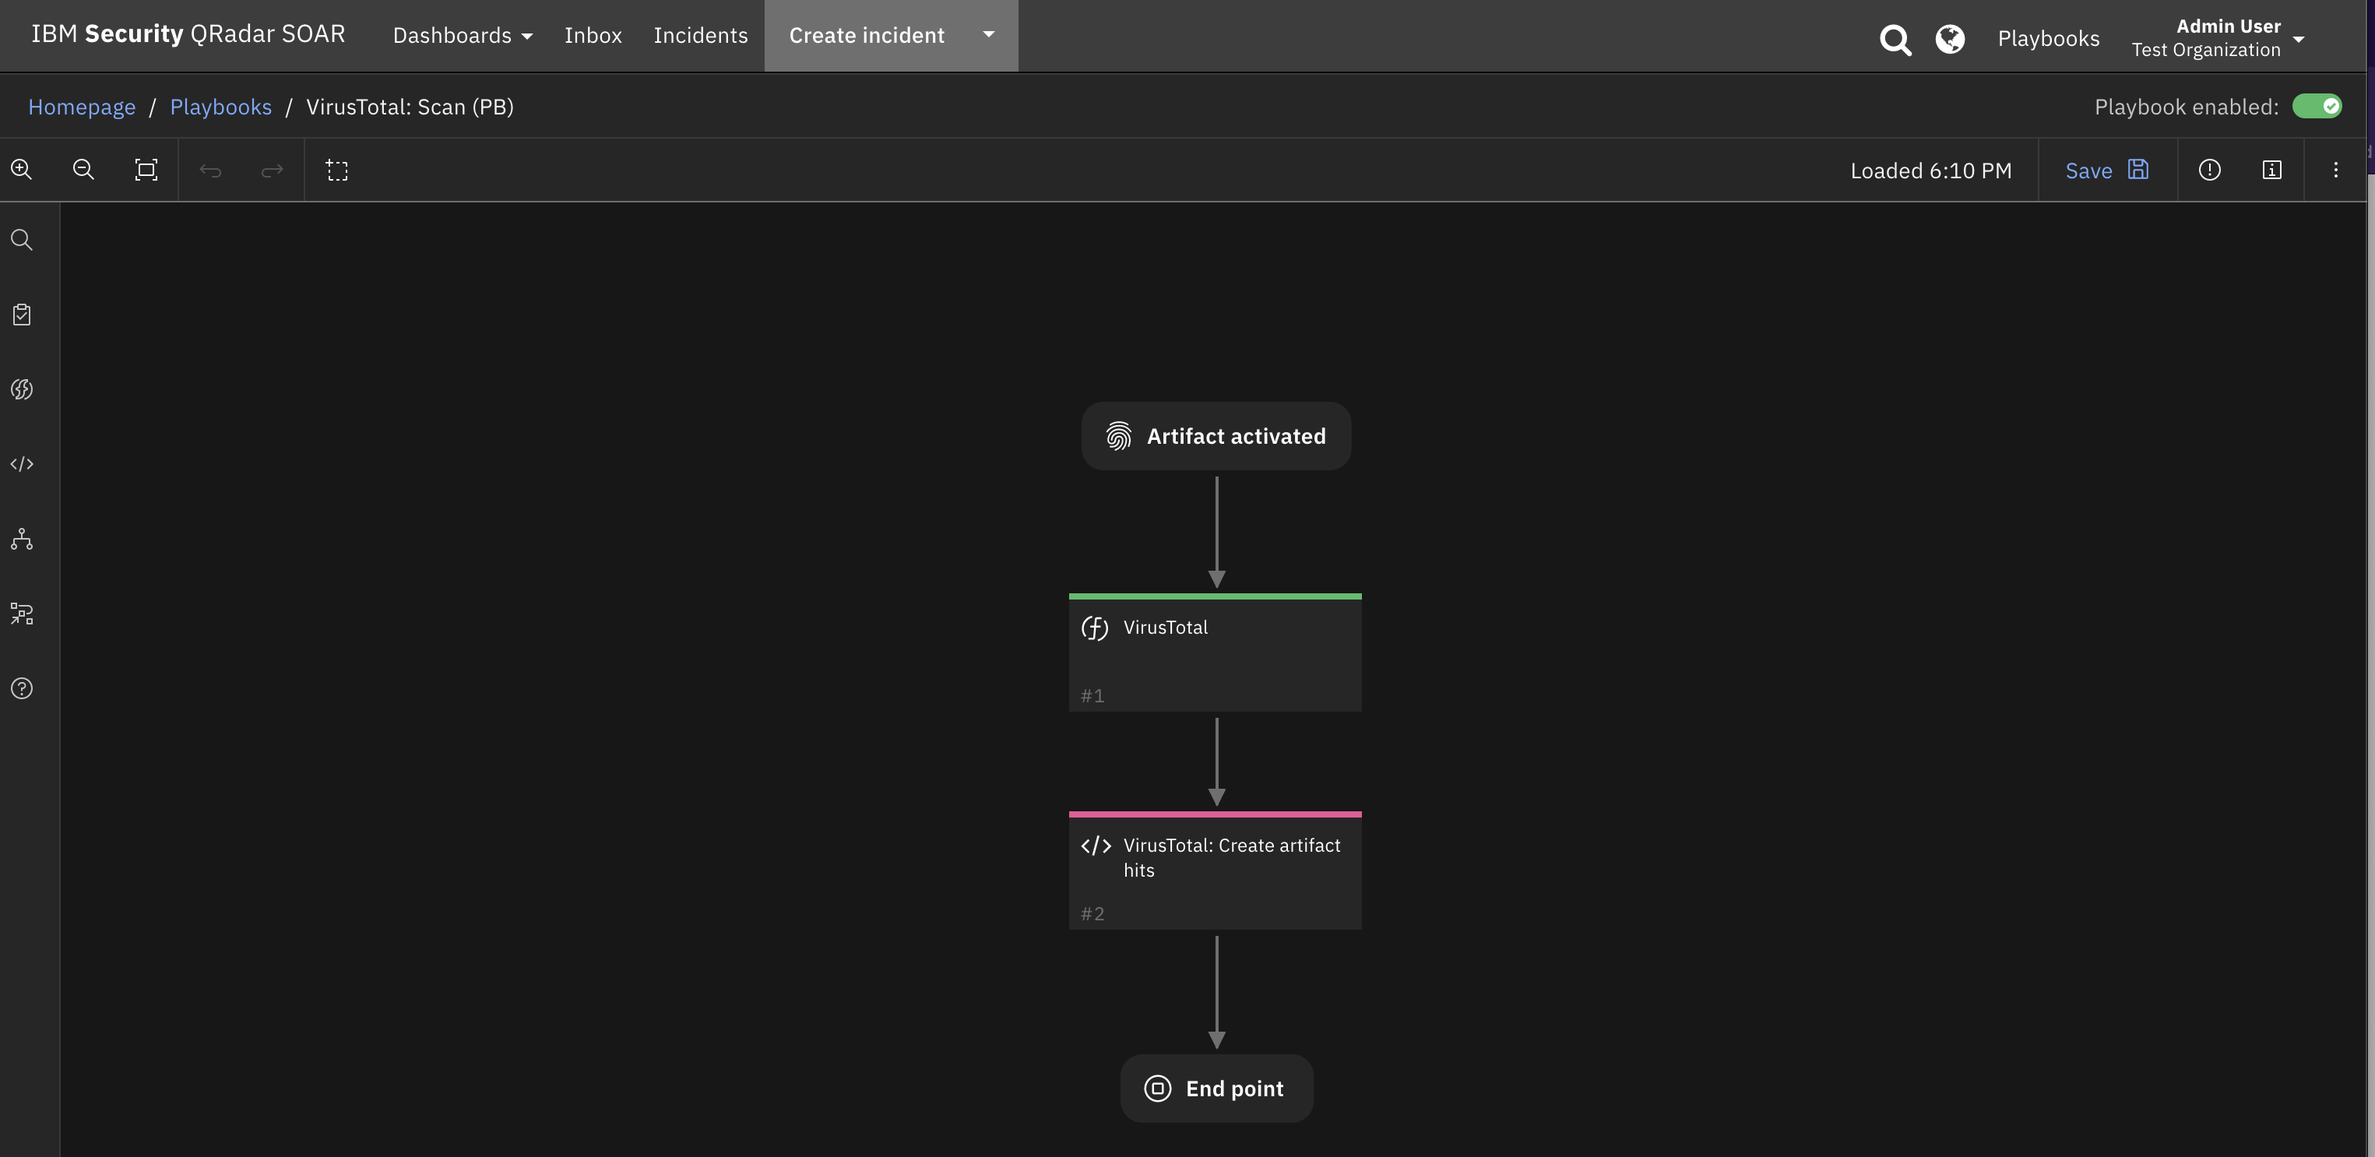
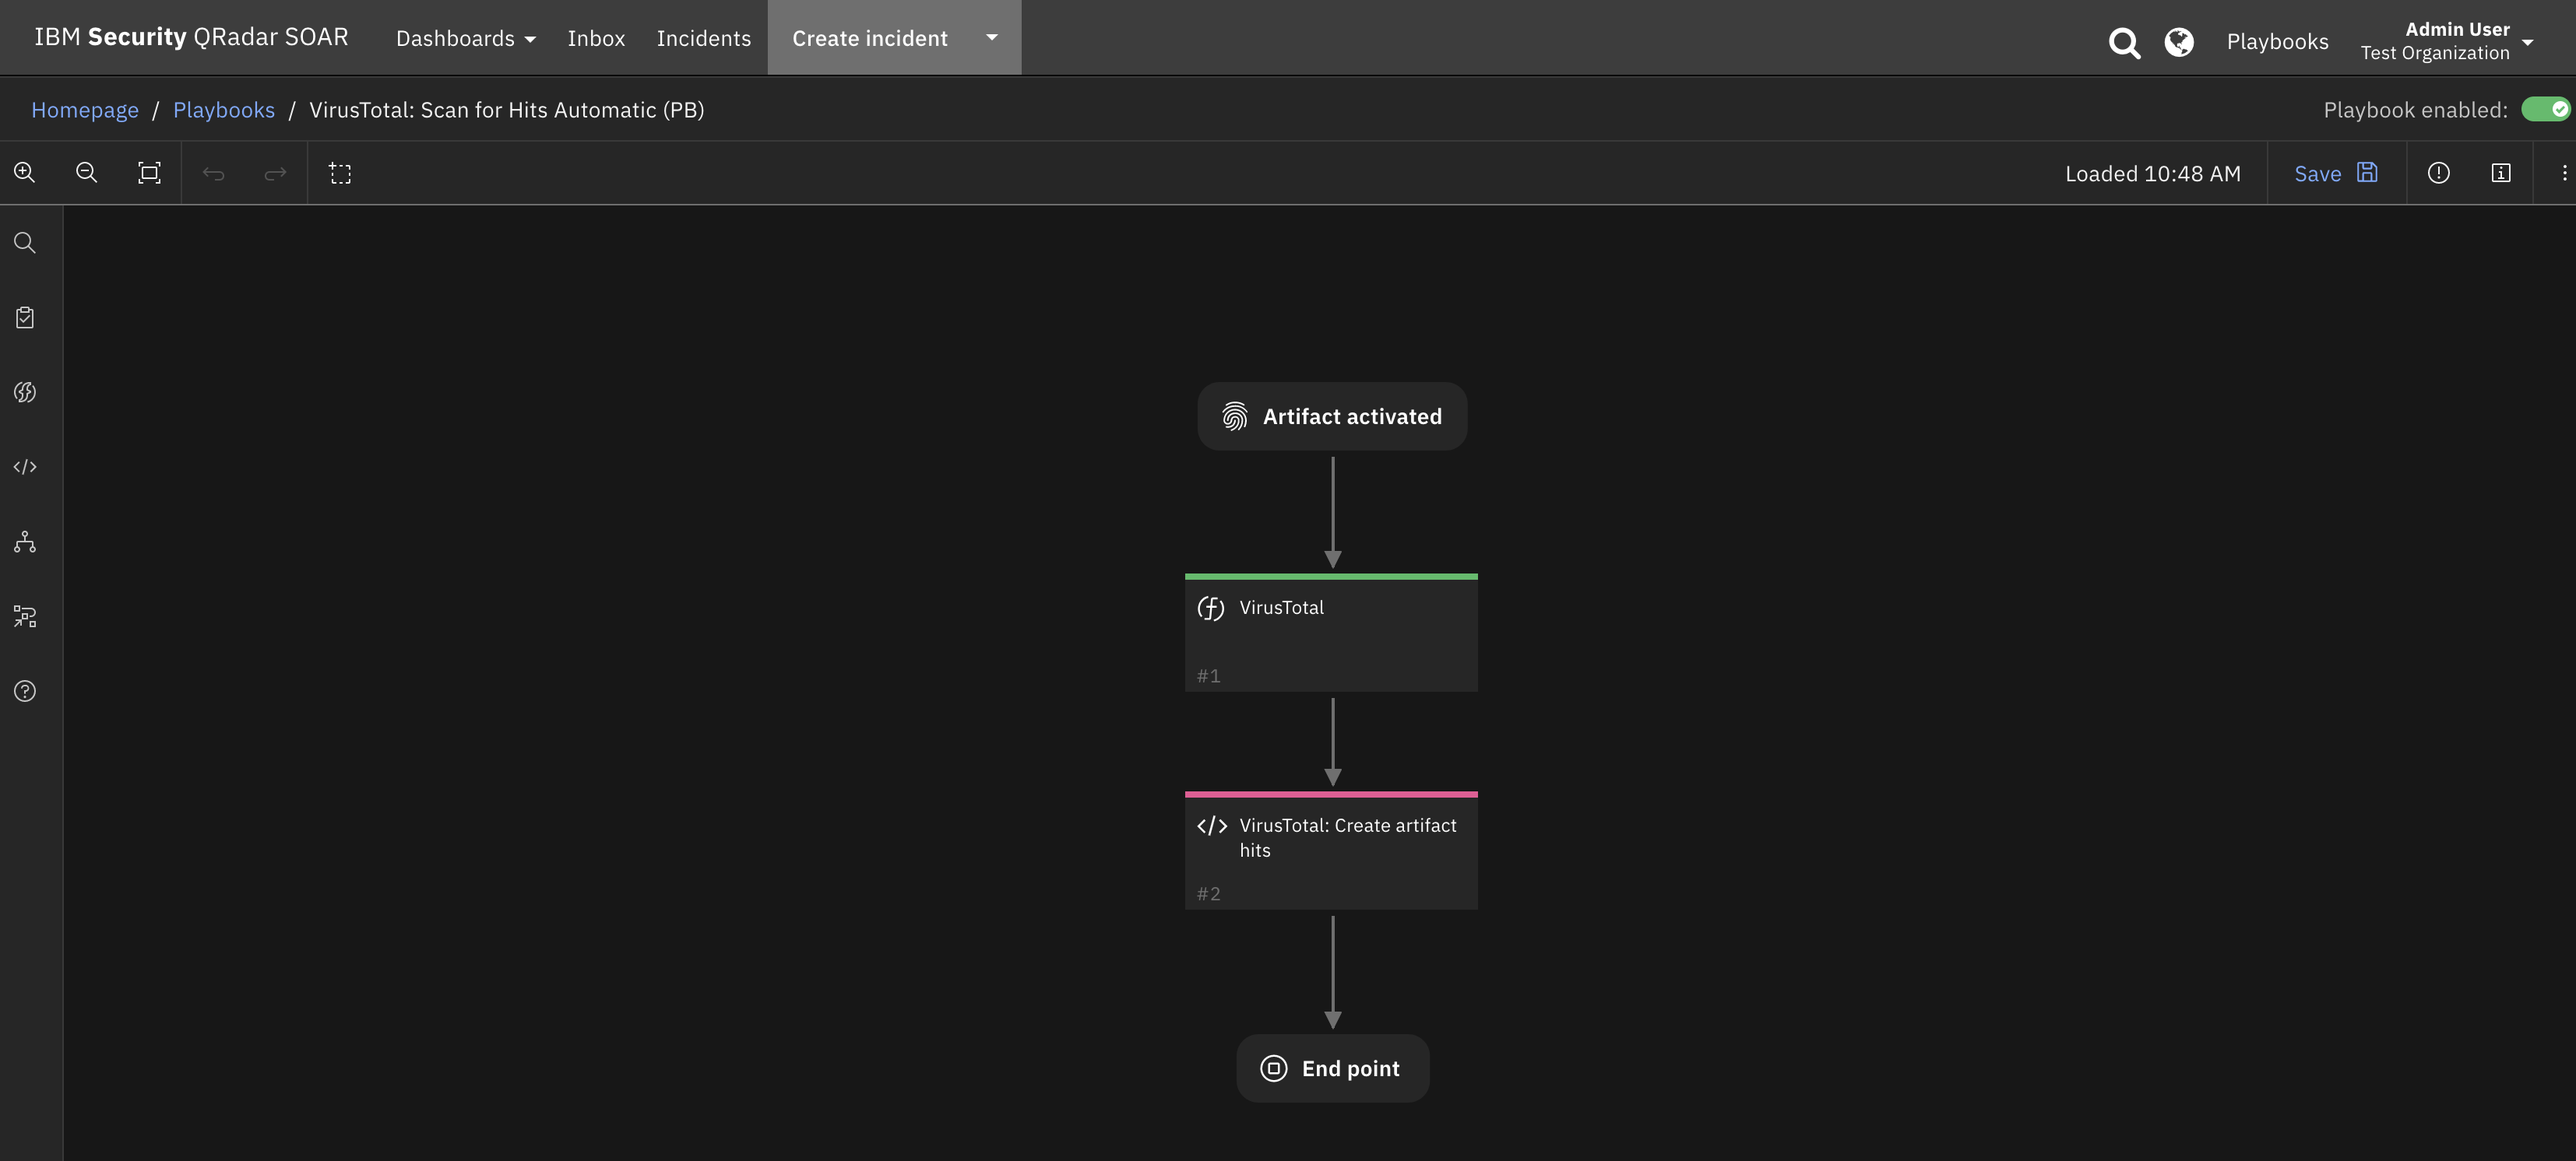
SOARAPPS-6721 {fn_virustotal} rename content package pbs to include Scan for Hits [build-dev-app][dev-deps]

diff --git a/res_virustotal/README.md b/res_virustotal/README.md
@@ -4,8 +4,8 @@
 
 This content package contains a single resource file with the following playbooks:
 
-1. Automatic playbook: `VirusTotal: Scan (PB)`
-2. Manual playbook: `VirusTotal: Scan Manual (PB)`
+1. Automatic playbook: `VirusTotal: Scan for Hits Automatic (PB)`
+2. Manual playbook: `VirusTotal: Scan for Hits (PB)`
 
 Both playbooks:
 - Perform VirusTotal analysis on the following artifact types:
@@ -13,13 +13,15 @@ Both playbooks:
 - Create a hit for an artifact if it is deemed potentially malicious by VirusTotal.
 - Use the `VirusTotal` function from the VirusTotal app for SOAR.
 
+NOTE: Automatic playbook `VirusTotal: Scan for Hits Automatic (PB)` replaces the rule `VirusTotal: Scan` and the workflow 
+`VirusTotal: Scan Hits` in the VirusTotal content package v1.0.0.  Once the 1.1 VirusTotal content package is installed, the old rule and workflow can be deleted or disabled.  The manual playbook `VirusTotal: Scan (PB)` is new with the v1.1 release of the content package.
 
-Here is are example hits created by the `VirusTotal: Scan (PB)` playbook:
+Here is are example hits created by the `VirusTotal: Scan for Hits Automatic (PB)` playbook:
 ![Hits](./screenshots/vt-artifact-hit.png)
 
 ![Hits](./screenshots/vt-artifact-hit-2.png)
 
-## Package Dependences
+## Package Dependencies
 The playbooks in this package depend on the following:
 - SOAR v45.2.0
 - fn_virustotal v1.1.0
@@ -43,9 +45,9 @@ and select the `virustotal.res` file downloaded above.
 Once the resource file is successfully imported, the playbooks included in the file is ready for use.
 
 
-### VirusTotal: Scan (PB) Playbook
-This playbook invokes a function from the fn_virustotal integration package and uses the results to create hits on artifacts based on the results from VirusTotal
-.
+### VirusTotal: Scan for Hits Automatic (PB) Playbook
+This playbook automatically invokes a function from the fn_virustotal integration package and uses the results to create hits on artifacts based on the results from VirusTotal.
+
 ![Playbook](./screenshots/main.png)
 
 
@@ -62,8 +64,10 @@ Perform VirusTotal scans and return reports on ip addresses, urls, domains, hash
 | `incident_id` | `number` | Yes | `--` | - |
 | `artifact_id` | `number` | No | `--` | - |
 | `attachment_id` | `number` | No | `--` | - |
+| `task_id` | `number` | No | `--` | - |
 | `vt_type` | `text` | No | `hash` | descriptor for the type of virusTotal lookup to perform |
 | `vt_data` | `text` | No | `0.0.0.0` | data field for virusTotal lookup |
+
 
 
 </p>
@@ -820,5 +824,5 @@ else:
 ## Uninstall
 Manually delete the following:
 1. Playbooks
-- "VirusTotal: Scan (PB)"
-- "VirusTotal: Scan Manual (PB)"
+- "VirusTotal: Scan for Hits Automatic (PB)"
+- "VirusTotal: Scan for Hits (PB)"

diff --git a/res_virustotal/data/pb_virustotal_scan_hits.md b/res_virustotal/data/pb_virustotal_scan_hits.md
@@ -4,7 +4,7 @@
     Generated with resilient-sdk v49.0.4368
 -->
 
-# Playbook - VirusTotal: Scan (PB)
+# Playbook - VirusTotal: Scan for Hits Automatic (PB)
 
 ### API Name
 `virustotal_scan_hits`

diff --git a/res_virustotal/data/pb_virustotal_scan_hits_manual.md b/res_virustotal/data/pb_virustotal_scan_hits_manual.md
@@ -4,7 +4,7 @@
     Generated with resilient-sdk v49.0.4368
 -->
 
-# Playbook - VirusTotal: Scan Manual (PB)
+# Playbook - VirusTotal: Scan for Hits (PB)
 
 ### API Name
 `virustotal_scan_hits`
